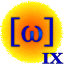
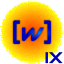
2.8

Changed region(s): [[0.1562, 0.25, 0.8438, 0.75], [0.6562, 0.8125, 1.0, 1.0], [0.3125, 0.5, 0.3438, 0.5625]]

diff --git a/main.js b/main.js
@@ -39,7 +39,7 @@ define(function(require, exports, module) {
     /** ------------------------------------------------------------------------
      *                               i18n
      ** ------------------------------------------------------------------------ */
-    var /** @const */ VERSION = '2.7',
+    var /** @const */ VERSION = '2.8',
         /** @const */ IXMENU = "IX",
         /** @const */ IXMENUTT = "IX TT",
         /** @const */ MODULENAME = 'bracketstoix',
@@ -828,13 +828,40 @@ define(function(require, exports, module) {
             }
             replaceSelection(new RegExp(findtext, (prefs.isall.value ? 'g' : '') +
                     (prefs.isignorecase.value ? 'i' : '') + (prefs.isimultiline.value ? 'm' : '')), (startValue !== undefined) && (stepValue !== undefined) ?
+				// format mode	(Start, Step)		 
                 function(data) {
                     var i, out = repltext;
 
                     for (i = 1; i < arguments.length - 2; i++) {
                         out = out.replace(new RegExp('\\$' + i, 'g'), arguments[i]);
                     }
-                    out = out.replace(/\$NUM\$/, startValue);
+					
+                    out = out.replace(/(\#\{(0*)(\d*)(\w+)\}\#)/, 
+						function (str, pall, pzero, pdigit, pmacro) {
+						
+						    function formatvalue(pzero, pdigit, value) {
+								var prefix = [];
+
+								value = value + '';
+								if (!pdigit) {
+									return value;
+								}
+								pdigit = pdigit >> 0;
+								if (value.length > pdigit) {
+									return value;
+								} 
+								prefix.length = pdigit + 1 - value.length;
+								return prefix.join(pzero ? '0' : ' ') + value;
+							}
+
+							switch(pmacro) {
+								case 'd' : return formatvalue(pzero, pdigit, startValue);
+								case 'X' : return formatvalue(pzero, pdigit, startValue.toString(16).toUpperCase());
+								case 'x' : return formatvalue(pzero, pdigit, startValue.toString(16));				  
+								default:   return pall;
+							}
+						}									  
+					);
                     startValue += stepValue;
                     return out;
                 } : repltext, prefs.isselonly.value ? SP_ALL : SP_FORCEALL);

diff --git a/nls/de/strings.js b/nls/de/strings.js
@@ -60,7 +60,7 @@ define({
   'FLD_tabSize_label': 'Tab-Größe',
   'FLD_find_label': 'Suche',
   'FLD_replace_label': 'Ersetze',
-  'FLD_replace_hint': '$NUM$ als Macro zum Nummerieren',
+  'FLD_replace_hint': '#{d}#, #{x}#, #{X}#, #{<value>d}#, #{0<value>d}# als Macro zum Nummerieren',
   'FLD_startValue_label': 'Start',
   'FLD_startValue_hint': 'Leer lassen, um Nummerierung abzuschalten. Es verlangsamt den Prozess und wird auch nur von wenigen regulären Ausdrücken für die Textersetzung unterstützt. Reguläre Ausdrücke müssen aktiviert sein.',
   'FLD_stepValue_label': 'Schrittweite',

diff --git a/nls/pt/strings.js b/nls/pt/strings.js
@@ -58,7 +58,7 @@ define({
   'FLD_tabSize_label' : 'Tamanho da Tab',
   'FLD_find_label' : 'Procurar',
   'FLD_replace_label' : 'Substituir',
-  'FLD_replace_hint' : 'Use $NUM$ para a numeração macro',
+  'FLD_replace_hint' : 'Use #{d}#, #{x}#, #{X}#, #{<valor>d}#, #{0<valor>d}# para a numeração macro',
   'FLD_startValue_label' : 'Inicio',
   'FLD_startValue_hint' : 'Deixe em branco para não numerar, uma vez que atrasa o processo e suporta apenas um pequeno subconjunto de substituição de expressões regulares. Deve ter expressão regular verificado',
   'FLD_stepValue_label' : 'Passo',

diff --git a/nls/root/strings.js b/nls/root/strings.js
@@ -61,7 +61,7 @@ define({
   'FLD_tabSize_label': 'Tab Size',
   'FLD_find_label': 'Find',
   'FLD_replace_label': 'Replace',
-  'FLD_replace_hint': 'Use $NUM$ for numbering macro',
+  'FLD_replace_hint': 'Use #{d}#, #{x}#, #{X}#, #{<value>d}#, #{0<value>d}# for numbering macro',
   'FLD_startValue_label': 'Start',
   'FLD_startValue_hint': 'Leave empty for no numbering, since it slows down the process and only supports a small regular expression subset replacement. Must have Regular Expression checked',
   'FLD_stepValue_label': 'Step',

diff --git a/README.md b/README.md
@@ -151,6 +151,10 @@ Use {{in}}, {{inpath}}, {{infile}}, {{out}}, {{outpath}}, {{outfile}} macros
   * **Options** - Configuration dialog  
   
 ## Version History  
+* 2.8       [http://www.apptoix.com/blog/?p=82]  
+	Logo updated  
+	ReplacetoIX improved support for enumerated lists: #{d}#, #{nd}#, #{0nd}#, #{X}#  
+  
 * 2.7       [http://www.apptoix.com/blog/?p=51]  
     Added Paste to the Editor Context Menu      
     Declare JSLint Global has improved support for global statement across multiple lines  

diff --git a/README-dev.md b/README-dev.md
@@ -151,6 +151,10 @@ Use {{in}}, {{inpath}}, {{infile}}, {{out}}, {{outpath}}, {{outfile}} macros
   * **Options** - Configuration dialog
 
 ## Version History
+* 2.8       [http://www.apptoix.com/blog/?p=82]
+	Logo updated
+	ReplacetoIX improved support for enumerated lists: #{d}#, #{nd}#, #{0nd}#, #{X}#
+
 * 2.7       [http://www.apptoix.com/blog/?p=51]
     Added Paste to the Editor Context Menu    
     Declare JSLint Global has improved support for global statement across multiple lines
